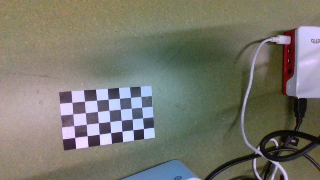
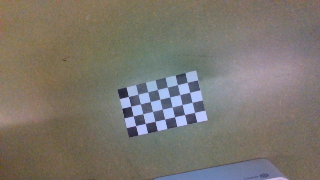
WE don't think visual servoing will work due to rotations, next will try to edit one point

diff --git a/mattsVisualServoing.m b/mattsVisualServoing.m
@@ -11,12 +11,12 @@ function mattsVisualServoing(cam, basePosImg, T_camera_endeffector, cameraParams
     % dt = 0.1;         % Time step (seconds)
     Lambda = 0.05; % Reduced from 0.18
     dt = 0.05;     % Reduced from 0.1
-    tolerance = 1e-6; % Error tolerance
+    tolerance = 1e-3; % Error tolerance
     
     % Camera intrinsic parameters
     principalPoint = cameraParams.Intrinsics.PrincipalPoint;
     focalLengthPixels = cameraParams.Intrinsics.FocalLength;
-    focalLength = cameraParams.Intrinsics.FocalLength
+    focalLength = cameraParams.Intrinsics.FocalLength;
     
     % Define the size of each checkerboard square in millimeters
     squareSize = 0.013;  % Checkerboard square size in mm
@@ -35,7 +35,6 @@ function mattsVisualServoing(cam, basePosImg, T_camera_endeffector, cameraParams
         
         % Detect checkerboard points in the current image
         [currentPoints, ~] = detectCheckerboardPoints(currentImg);
-        
         % Check if checkerboard was detected in the current image
         if isempty(currentPoints)
             disp('Checkerboard not detected in the current image.');
@@ -44,98 +43,102 @@ function mattsVisualServoing(cam, basePosImg, T_camera_endeffector, cameraParams
         
         % Estimate the pose of the checkerboard
         [rotationMatrix, translationVector] = extrinsics(currentPoints, worldPoints, cameraParams);
-        Z = translationVector(3); % Update Z with the actual depth
+        
+        % Compute depths for each point
+        numPoints = size(currentPoints, 1);
+        Z = zeros(numPoints, 1);
+        for i = 1:numPoints
+            % Transform world points to camera frame using rotation and translation
+            worldPoint = [worldPoints(i, :) 1]'; % Homogeneous coordinates
+            cameraPoint = rotationMatrix * worldPoint(1:3) + translationVector;
+            Z(i) = cameraPoint(3); % Depth of the i-th point
+        end
         
         % Normalize the matched feature coordinates
         xy = (desiredPoints - principalPoint) ./ focalLength;
         Obsxy = (currentPoints - principalPoint) ./ focalLength;
         
-        % Compute Interaction Matrix Lx
+        % Number of feature points
         n = size(desiredPoints, 1);
-        Lx = zeros(2*n, 6);  % Preallocate Lx for efficiency
+        % Interaction matrix for translational DoF only
+        Lx = zeros(2*n, 3);
         
         for i = 1:n
-            Lxi = FuncLx(Obsxy(i, 1), Obsxy(i, 2), Z, Lambda);
+            Lxi = FuncLx(Obsxy(i, 1), Obsxy(i, 2), Z(i), Lambda);
             Lx(2*i-1:2*i, :) = Lxi;
         end
         
         % Compute the error
         e = reshape((Obsxy - xy)', [], 1);
-    
+        
         % Compute error norm
         errorNorm = norm(e);
         disp(['Error Norm: ', num2str(errorNorm)]);
-    
+        
         % Termination condition
         if errorNorm < tolerance
             disp('Target position reached within tolerance.');
-            break;
+            % break;
         end
-    
+        
         % Set a minimum error threshold
         minErrorThreshold = 0.005; % Adjust as needed
         if errorNorm < minErrorThreshold
             disp('Error below threshold; no movement commanded.');
-            Vc = zeros(6, 1);
+            Vc_translational = zeros(3, 1);
         else
-            % Damping factor for damped least squares
-            lambda_dls = 0.01; % Adjust as necessary
-    
-            % Compute damped least squares inverse of Lx
+            % Damped least squares inverse of Lx
+            lambda_dls = 0.01; % Damping factor
             Lx_pseudo_inv = Lx' * inv(Lx * Lx' + lambda_dls^2 * eye(size(Lx,1)));
-    
-            % Compute control law
-            Vc = -Lambda * Lx_pseudo_inv * e;
+        
+            % Compute control law (translational velocities only)
+            Vc_translational = -Lambda * Lx_pseudo_inv * e;
         end
-    
-        % Display Vc
-        disp('Vc:');
-        disp(Vc);
-    
-        % Integrate Vc to Get Displacement
-        delta_Xc = Vc * dt;
+        
+        % Display Vc_translational
+        disp('Vc_translational:');
+        disp(Vc_translational);
+        
+        % Integrate translational velocities to get displacement
+        delta_Xc = Vc_translational * dt;
         disp('delta_Xc:');
         disp(delta_Xc);
-    
+        
         % Limit maximum displacement
         max_displacement = 0.005; % Maximum allowed displacement in meters
-        delta_Xc(1:3) = max(min(delta_Xc(1:3), max_displacement), -max_displacement);
-        delta_Xc(4:6) = max(min(delta_Xc(4:6), max_displacement), -max_displacement);
-    
+        delta_Xc = max(-max_displacement, min(max_displacement, delta_Xc));
+        
         % Transform delta_Xc from camera frame to end-effector frame
-        delta_Xe = T_camera_endeffector(1:3,1:3) * delta_Xc(1:3);
-        delta_Omega_e = T_camera_endeffector(1:3,1:3) * delta_Xc(4:6);
+        delta_Xe = T_camera_endeffector(1:3,1:3) * delta_Xc;
+        
+        % Since rotation is not possible, set rotational increments to zero
+        delta_Omega_e = zeros(3,1);
+        
+        % Combine translational and rotational increments
         delta_Xe_full = [delta_Xe; delta_Omega_e];
-    
+        
         % Display delta_Xe_full
         disp('delta_Xe_full:');
         disp(delta_Xe_full);
-    
+        
         % Update End-Effector Pose
         [currentPosition, currentEulerAngles] = getCurrentEndEffectorPose();
-        currentRotationMatrix = eul2rotm(currentEulerAngles, 'XYZ');
-        T_current = [currentRotationMatrix, currentPosition'; 0 0 0 1];
-    
-        % Compute incremental transformation
-        delta_translation = delta_Xe_full(1:3);
-        deltaEulerAngles = delta_Xe_full(4:6)';
-        delta_rotation_matrix = eul2rotm(deltaEulerAngles, 'XYZ');
-        T_delta = [delta_rotation_matrix, delta_translation; 0 0 0 1];
-    
-        % Compute new pose
-        T_new = T_current * T_delta;
-        newPosition = T_new(1:3, 4)';
-        newRotationMatrix = T_new(1:3, 1:3);
-        newEulerAngles = rotm2eul(newRotationMatrix, 'XYZ');
-    
+        
+        % New position is the current position plus the delta
+        newPosition = currentPosition + delta_Xe';
+        
+        % Orientation remains the same
+        newEulerAngles = currentEulerAngles;
+        
         % Send New Pose to Robot
         sendTargetEndEffectorPose(newPosition, newEulerAngles);
-        disp('Current End-Effector Pose (T_current):');
-        disp(T_current);
-        disp('New End-Effector Pose (T_new):');
-        disp(T_new);
+        disp('Current Position:');
+        disp(currentPosition);
+        disp('New Position:');
+        disp(newPosition);
         input("Press enter to continue");
-    
+        
         % Wait for Next Iteration
         pause(dt);
+
 end

diff --git a/FuncLx.m b/FuncLx.m
@@ -1,17 +1,5 @@
-function [Lx] = FuncLx(x,y,Z, lambda)
-    Lx = zeros(2,6);
-    
-    Lx(1,1) = -lambda/Z;
-    Lx(1,2) = 0;
-    Lx(1,3) = x/Z;
-    Lx(1,4) = x*y/lambda;
-    Lx(1,5) = -(lambda^2+x^2)/lambda;
-    Lx(1,6) = y;
-    
-    Lx(2,1) = 0;
-    Lx(2,2) = -lambda/Z;
-    Lx(2,3) = y/Z;
-    Lx(2,4) = (lambda^2+y^2)/lambda;
-    Lx(2,5) = -(x*y)/lambda;
-    Lx(2,6) = -x;
+function Lxi = FuncLx(x, y, Z, Lambda)
+    Lxi = [-1/Z, 0, x/Z;
+           0, -1/Z, y/Z];
+    Lxi = Lambda * Lxi;
 end
